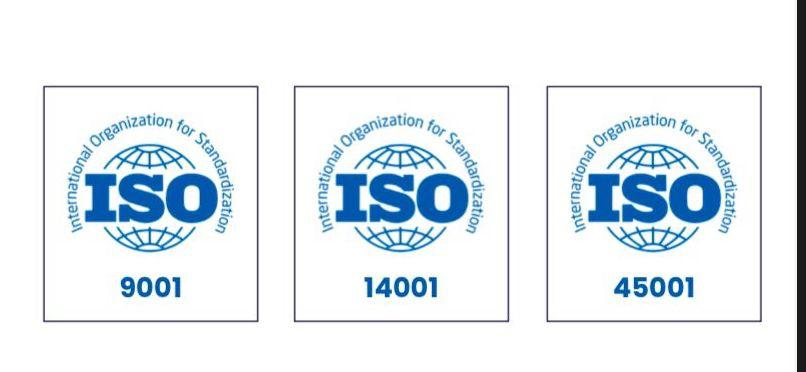
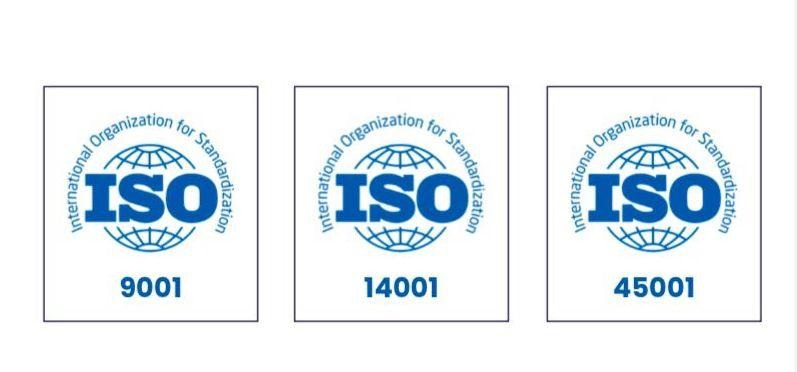
Refresh site copy, mobile nav, and MEP-focused home hero.
Bump tenure to 14+ years in the UAE, make mobile About/Solutions menus accordion-style, swap the slab hero for electrical installation, crop the ISO board edge, and tighten contact form placeholder copy.

diff --git a/src/components/layout/Header.tsx b/src/components/layout/Header.tsx
@@ -82,6 +82,8 @@ export function Header() {
   const [scrolled, setScrolled] = useState(false);
   const [mobileOpen, setMobileOpen] = useState(false);
   const [megaOpen, setMegaOpen] = useState(false);
+  const [mobileSection, setMobileSection] = useState<string | null>(null);
+  const [mobileBucket, setMobileBucket] = useState<string | null>(null);
 
   useEffect(() => {
     const onScroll = () => setScrolled(window.scrollY > 12);
@@ -96,6 +98,20 @@ export function Header() {
       document.body.style.overflow = "";
     };
   }, [mobileOpen]);
+
+  useEffect(() => {
+    if (!mobileOpen) {
+      setMobileSection(null);
+      setMobileBucket(null);
+    }
+  }, [mobileOpen]);
+
+  const closeMobile = () => setMobileOpen(false);
+
+  const toggleMobileSection = (key: string) => {
+    setMobileSection((current) => (current === key ? null : key));
+    setMobileBucket(null);
+  };
 
   return (
     <header className="sticky top-0 z-50 bg-white">
@@ -251,48 +267,119 @@ export function Header() {
           mobileOpen ? "visible opacity-100" : "invisible opacity-0",
         )}
       >
-        <nav className="container-site flex h-full flex-col gap-2 overflow-y-auto py-6 pb-28">
-          {nav.map((item) => (
-            <div key={item.label} className="border-b border-navy/10 pb-3">
-              <Link
-                href={item.href}
-                className="block py-2 font-display text-lg font-semibold text-navy"
-                onClick={() => setMobileOpen(false)}
-              >
-                {item.label}
-              </Link>
-              {item.mega
-                ? solutionChildren.map((bucket) => (
-                    <div key={bucket.id} className="mb-3 ml-2">
-                      <p className="mt-2 text-xs font-semibold text-slate">
-                        {bucket.short}
-                      </p>
-                      {bucket.pages.map((page) => (
-                        <Link
-                          key={page.href}
-                          href={page.href}
-                          className="block py-1.5 text-sm text-slate-dark"
-                          onClick={() => setMobileOpen(false)}
-                        >
-                          {page.label}
-                        </Link>
-                      ))}
-                    </div>
-                  ))
-                : null}
-              {item.children?.map((child) => (
+        <nav className="container-site flex h-full flex-col gap-1 overflow-y-auto py-6 pb-28">
+          {nav.map((item) => {
+            const hasDropdown = Boolean(item.children || item.mega);
+            const sectionOpen = mobileSection === item.label;
+
+            if (!hasDropdown) {
+              return (
                 <Link
-                  key={child.href}
-                  href={child.href}
-                  className="ml-2 block py-1.5 text-sm text-slate-dark"
-                  onClick={() => setMobileOpen(false)}
+                  key={item.label}
+                  href={item.href}
+                  className="border-b border-navy/10 py-3 font-display text-lg font-semibold text-navy"
+                  onClick={closeMobile}
                 >
-                  {child.label}
+                  {item.label}
                 </Link>
-              ))}
-            </div>
-          ))}
-          <Button href="/contact" className="mt-4 w-full">
+              );
+            }
+
+            return (
+              <div key={item.label} className="border-b border-navy/10">
+                <div className="flex items-center gap-1">
+                  <Link
+                    href={item.href}
+                    className="flex-1 py-3 font-display text-lg font-semibold text-navy"
+                    onClick={closeMobile}
+                  >
+                    {item.label}
+                  </Link>
+                  <button
+                    type="button"
+                    className="inline-flex h-11 w-11 items-center justify-center rounded-md text-navy"
+                    aria-expanded={sectionOpen}
+                    aria-label={`${sectionOpen ? "Collapse" : "Expand"} ${item.label}`}
+                    onClick={() => toggleMobileSection(item.label)}
+                  >
+                    <ChevronDown
+                      className={cn(
+                        "h-5 w-5 transition-transform",
+                        sectionOpen && "rotate-180",
+                      )}
+                    />
+                  </button>
+                </div>
+
+                {sectionOpen && item.children ? (
+                  <div className="mb-3 space-y-0.5 pl-2">
+                    {item.children.map((child) => (
+                      <Link
+                        key={child.href}
+                        href={child.href}
+                        className="block rounded-md px-2 py-2.5 text-sm text-slate-dark hover:bg-mist"
+                        onClick={closeMobile}
+                      >
+                        {child.label}
+                      </Link>
+                    ))}
+                  </div>
+                ) : null}
+
+                {sectionOpen && item.mega
+                  ? solutionChildren.map((bucket) => {
+                      const bucketOpen = mobileBucket === bucket.id;
+                      return (
+                        <div key={bucket.id} className="mb-2 pl-2">
+                          <div className="flex items-center gap-1">
+                            <Link
+                              href={bucket.href}
+                              className="flex-1 rounded-md px-2 py-2 text-sm font-semibold text-navy"
+                              onClick={closeMobile}
+                            >
+                              {bucket.label}
+                            </Link>
+                            <button
+                              type="button"
+                              className="inline-flex h-10 w-10 items-center justify-center rounded-md text-slate-dark"
+                              aria-expanded={bucketOpen}
+                              aria-label={`${bucketOpen ? "Collapse" : "Expand"} ${bucket.label}`}
+                              onClick={() =>
+                                setMobileBucket((current) =>
+                                  current === bucket.id ? null : bucket.id,
+                                )
+                              }
+                            >
+                              <ChevronDown
+                                className={cn(
+                                  "h-4 w-4 transition-transform",
+                                  bucketOpen && "rotate-180",
+                                )}
+                              />
+                            </button>
+                          </div>
+                          {bucketOpen ? (
+                            <div className="mb-1 space-y-0.5 pl-2">
+                              {bucket.pages.map((page) => (
+                                <Link
+                                  key={page.href}
+                                  href={page.href}
+                                  className="block rounded-md px-2 py-2 text-sm text-slate-dark hover:bg-mist"
+                                  onClick={closeMobile}
+                                >
+                                  {page.label}
+                                </Link>
+                              ))}
+                            </div>
+                          ) : null}
+                        </div>
+                      );
+                    })
+                  : null}
+              </div>
+            );
+          })}
+          <Button href="/contact" className="mt-4 w-full" onClick={closeMobile}>
             Get a Quote
           </Button>
         </nav>

diff --git a/src/content/about.ts b/src/content/about.ts
@@ -14,7 +14,7 @@ export const aboutContent = {
         heading: "What We Do",
         paragraphs: [
           "Electech is a leader in delivering comprehensive Electromechanical Works across the UAE. Renowned for our commitment to excellence, we serve a diverse clientele, including interior fit-out, construction, facility management, villa developers, healthcare, the hospitality sector, and private owners of commercial and residential properties.",
-          "As a leading Electromechanical company in Dubai for over 12 years, we have been breaking creative boundaries and redefining Electromechanical services. We provide beautiful living spaces and create purposeful masterpieces enriched with comfort, convenience, and flamboyance. We have transformed homes, palaces, offices, restaurants, and hotels into environments as unique as our clients themselves. Serving those who desire only the best for their properties, we offer innovative designs built to your personalized preferences.",
+          "As a leading Electromechanical company in Dubai for over 14 years, we have been breaking creative boundaries and redefining Electromechanical services. We provide beautiful living spaces and create purposeful masterpieces enriched with comfort, convenience, and flamboyance. We have transformed homes, palaces, offices, restaurants, and hotels into environments as unique as our clients themselves. Serving those who desire only the best for their properties, we offer innovative designs built to your personalized preferences.",
         ],
       },
       {
@@ -39,7 +39,7 @@ export const aboutContent = {
       {
         heading: "Our Approach",
         paragraphs: [
-          "Leveraging the latest technologies, a highly trained workforce, and over 12 years of expertise, we handle all types of complex and bespoke projects. Our emphasis is on creating a balanced living environment, and all other aspects of the atmosphere are beautifully coordinated to complement your taste and personality. We work with you to make your living spaces the ideal homes where architectural excellence and design finesse integrate seamlessly. When our team takes up a project, we prioritize creating the perfect blend of aesthetics, luxury, and comfortable living.",
+          "Leveraging the latest technologies, a highly trained workforce, and over 14 years of expertise, we handle all types of complex and bespoke projects. Our emphasis is on creating a balanced living environment, and all other aspects of the atmosphere are beautifully coordinated to complement your taste and personality. We work with you to make your living spaces the ideal homes where architectural excellence and design finesse integrate seamlessly. When our team takes up a project, we prioritize creating the perfect blend of aesthetics, luxury, and comfortable living.",
         ],
       },
     ],
@@ -157,7 +157,7 @@ export const aboutContent = {
           "Timely delivery supported by weekly reporting and clear stakeholder communication.",
       },
       {
-        title: "12+ years in Dubai",
+        title: "14+ years in the UAE",
         description:
           "Operating since 2012 across fit-out, hospitality, healthcare, government and residential work.",
       },

diff --git a/src/app/page.tsx b/src/app/page.tsx
@@ -35,7 +35,7 @@ import { pageMetadata } from "@/lib/seo";
 export const metadata = pageMetadata({
   title: "MEP Contractor Dubai",
   description: siteConfig.description,
-  image: "/images/heroes/hero-02-construction-site-workers.jpg",
+  image: "/images/heroes/hero-02-electrical-installation.jpg",
   path: "/",
 });
 
@@ -62,7 +62,7 @@ export default function HomePage() {
             </h1>
             <p className="mt-5 max-w-xl text-[17px] text-white/90 md:text-lg">
               One-stop mechanical, electrical, plumbing and fire safety
-              contractor with 12+ years delivering precision work across the UAE.
+              contractor with 14+ years in the UAE delivering precision work.
             </p>
             <div className="mt-8 flex flex-wrap gap-3">
               <Button href="/solutions">Explore Our Solutions</Button>

diff --git a/src/app/about/certifications/page.tsx b/src/app/about/certifications/page.tsx
@@ -38,7 +38,7 @@ export default function CertificationsPage() {
         <p className="mt-3 max-w-2xl text-slate-dark">
           International Organization for Standardization management systems.
         </p>
-        <div className="relative mx-auto mt-8 aspect-[806/372] max-w-3xl overflow-hidden rounded-md border border-navy/10 bg-white">
+        <div className="relative mx-auto mt-8 aspect-[797/372] max-w-3xl overflow-hidden rounded-md border border-navy/10 bg-white">
           <PhotoMedia
             image={certificationsBoard}
             sizes="(max-width: 768px) 100vw, 720px"

diff --git a/src/lib/media.ts b/src/lib/media.ts
@@ -172,8 +172,8 @@ export function stockImageForBucket(
 /** Default hero slides — prefer resolveHeroSlides() dedicated files */
 export const defaultHeroSlides: MediaRef[] = [
   {
-    src: "/images/heroes/hero-02-construction-site-workers.jpg",
-    alt: "Site workers in high-vis on an active slab.",
+    src: "/images/heroes/hero-02-electrical-installation.jpg",
+    alt: "Electrician installing wiring at an electrical distribution box.",
     objectPosition: "center right",
   },
   {

diff --git a/src/lib/hero-slides.ts b/src/lib/hero-slides.ts
@@ -4,8 +4,8 @@ import type { MediaRef } from "@/lib/media";
 
 const HOME_HEROES: MediaRef[] = [
   {
-    src: "/images/heroes/hero-02-construction-site-workers.jpg",
-    alt: "Construction workers in high-visibility clothing working on an active concrete slab with rebar.",
+    src: "/images/heroes/hero-02-electrical-installation.jpg",
+    alt: "Electrician in safety gear installing and testing wiring at an electrical distribution box.",
     objectPosition: "center right",
   },
   {

diff --git a/src/content/site.ts b/src/content/site.ts
@@ -28,7 +28,7 @@ export const siteConfig = {
   },
   stats: [
     { value: 2012, label: "Established", suffix: "", prefix: "" },
-    { value: 12, label: "Years in the UAE", suffix: "+", prefix: "" },
+    { value: 14, label: "Years in the UAE", suffix: "+", prefix: "" },
     {
       value: 0,
       label: "Projects delivered",

diff --git a/src/components/contact/ContactForm.tsx b/src/components/contact/ContactForm.tsx
@@ -120,7 +120,7 @@ export function ContactForm() {
           <input
             {...register("projectType")}
             className={inputClass}
-            placeholder="Fit-out, villa, maintenance…"
+            placeholder="MEP or maintenance"
           />
         </Field>
       </div>

diff --git a/src/components/ui/Button.tsx b/src/components/ui/Button.tsx
@@ -41,7 +41,7 @@ export function Button({
 
   if (href) {
     return (
-      <Link href={href} className={classes} aria-label={ariaLabel}>
+      <Link href={href} className={classes} aria-label={ariaLabel} onClick={onClick}>
         {children}
       </Link>
     );

diff --git a/docs/hero-sources.md b/docs/hero-sources.md
@@ -6,7 +6,7 @@ All heroes are free commercial-use stock (Unsplash License or Pexels License). F
 
 | File | Source | Why it fits |
 |------|--------|-------------|
-| `heroes/hero-02-construction-site-workers.jpg` | Unsplash `photo-1504307651254-35680f356dfd` | Live-site workers in high-vis on slab/rebar — delivery credibility |
+| `heroes/hero-02-electrical-installation.jpg` | Unsplash `photo-1621905251918-48416bd8575a` | Electrician at a distribution box — electrical / MEP installation |
 | `heroes/hero-03-plant-room-pipework.jpg` | Unsplash `photo-1513828583688-c52646db42da` | Clean stainless plant room with pumps and pipework — MEP craft |
 
 Slider behaviour: 6.5s interval, 1.2s crossfade, Ken Burns max 5%, pause on hover, `prefers-reduced-motion` respected, first slide `priority` / eager.
